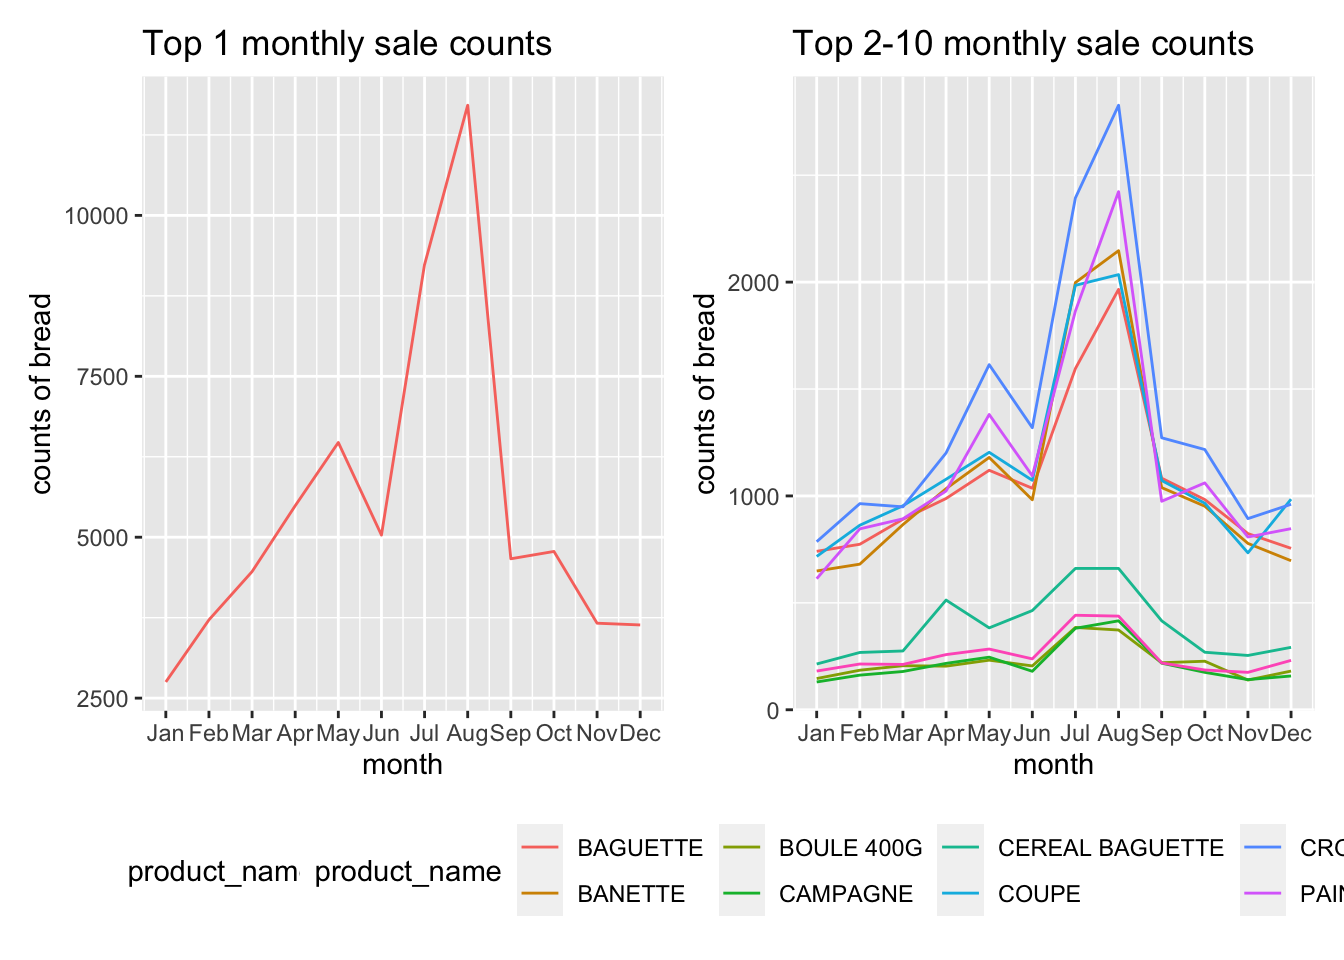
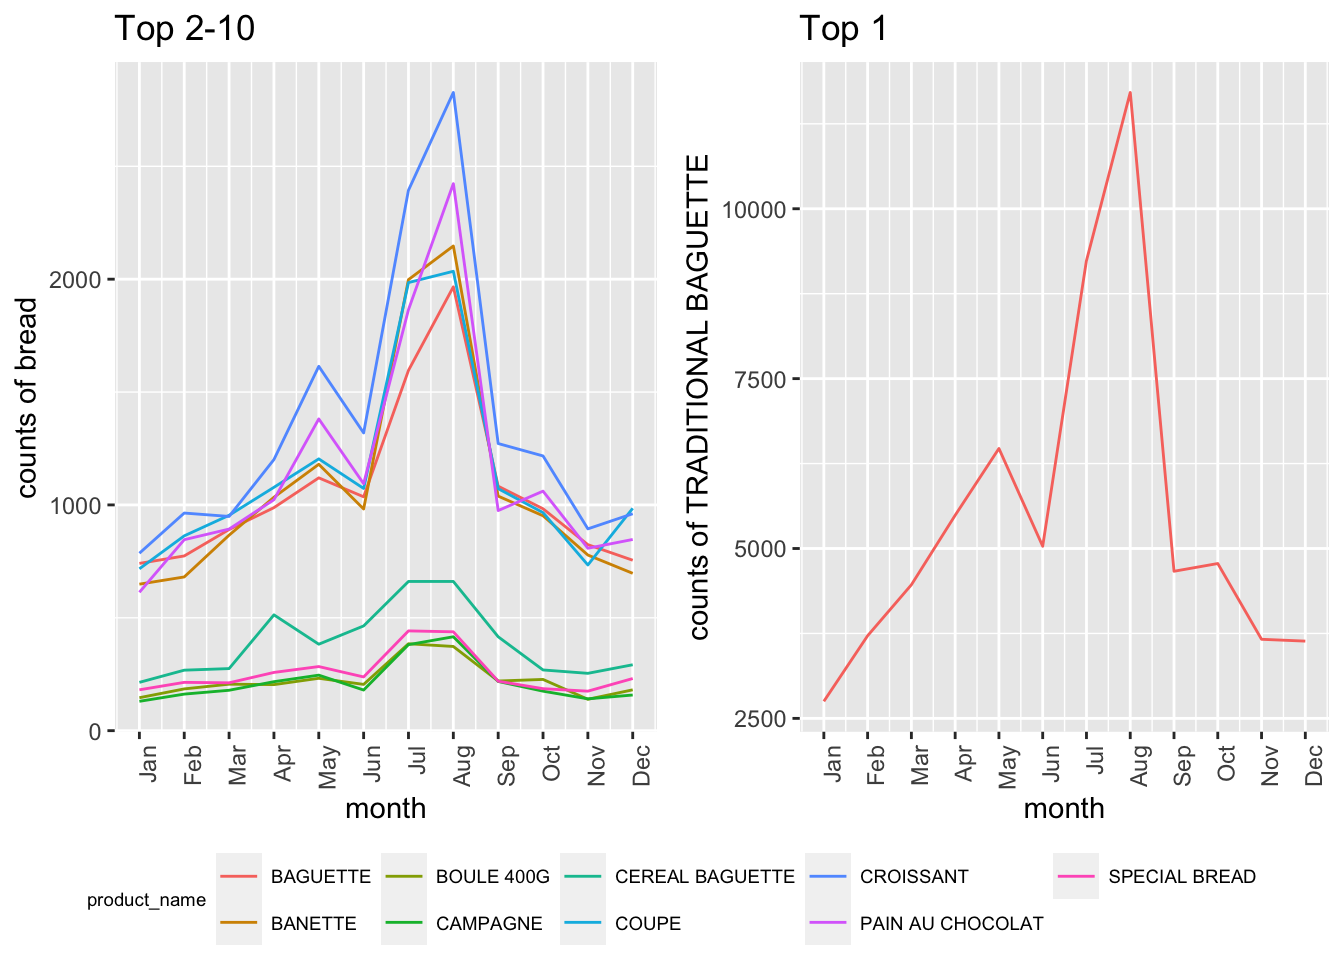
added descriptions for Top 10 favorite bread monthly sale counts in 2021

diff --git a/plot.html b/plot.html
@@ -13,7 +13,7 @@
 
 <title>Exploratory Analyses</title>
 
-<script src="site_libs/header-attrs-2.16/header-attrs.js"></script>
+<script src="site_libs/header-attrs-2.18/header-attrs.js"></script>
 <script src="site_libs/jquery-3.6.0/jquery-3.6.0.min.js"></script>
 <meta name="viewport" content="width=device-width, initial-scale=1" />
 <link href="site_libs/bootstrap-3.3.5/css/sandstone.min.css" rel="stylesheet" />
@@ -37,12 +37,12 @@
 <link href="site_libs/highlightjs-9.12.0/default.css" rel="stylesheet" />
 <script src="site_libs/highlightjs-9.12.0/highlight.js"></script>
 <script src="site_libs/htmlwidgets-1.5.4/htmlwidgets.js"></script>
-<script src="site_libs/plotly-binding-4.10.0/plotly.js"></script>
+<script src="site_libs/plotly-binding-4.10.1/plotly.js"></script>
 <script src="site_libs/typedarray-0.1/typedarray.min.js"></script>
 <link href="site_libs/crosstalk-1.2.0/css/crosstalk.min.css" rel="stylesheet" />
 <script src="site_libs/crosstalk-1.2.0/js/crosstalk.min.js"></script>
-<link href="site_libs/plotly-htmlwidgets-css-2.5.1/plotly-htmlwidgets.css" rel="stylesheet" />
-<script src="site_libs/plotly-main-2.5.1/plotly-latest.min.js"></script>
+<link href="site_libs/plotly-htmlwidgets-css-2.11.1/plotly-htmlwidgets.css" rel="stylesheet" />
+<script src="site_libs/plotly-main-2.11.1/plotly-latest.min.js"></script>
 <link href="site_libs/font-awesome-5.1.0/css/all.css" rel="stylesheet" />
 <link href="site_libs/font-awesome-5.1.0/css/v4-shims.css" rel="stylesheet" />
 
@@ -191,8 +191,8 @@ $(document).ready(function () {
   border-radius: 4px;
 }
 
-.tabset-dropdown > .nav-tabs > li.active:before {
-  content: "";
+.tabset-dropdown > .nav-tabs > li.active:before, .tabset-dropdown > .nav-tabs.nav-tabs-open:before {
+  content: "\e259";
   font-family: 'Glyphicons Halflings';
   display: inline-block;
   padding: 10px;
@@ -200,16 +200,9 @@ $(document).ready(function () {
 }
 
 .tabset-dropdown > .nav-tabs.nav-tabs-open > li.active:before {
-  content: "&#xe258;";
-  border: none;
-}
-
-.tabset-dropdown > .nav-tabs.nav-tabs-open:before {
-  content: "";
+  content: "\e258";
   font-family: 'Glyphicons Halflings';
-  display: inline-block;
-  padding: 10px;
-  border-right: 1px solid #ddd;
+  border: none;
 }
 
 .tabset-dropdown > .nav-tabs > li.active {
@@ -394,7 +387,7 @@ library(tidyverse)
 library(lubridate)
 library(plotly)
 library(patchwork)
-library(viridis)</code></pre>
+library(ggpubr)</code></pre>
 <div id="summary-of-the-used-packages-and-dependencies"
 class="section level3">
 <h3>Summary of the used packages and dependencies</h3>
@@ -451,8 +444,8 @@ the missing data via <code>filter()</code> and <code>article</code> via
          yaxis = list(showgrid = FALSE, zeroline = FALSE, showticklabels = FALSE))
 
 plot_pie</code></pre>
-<div id="htmlwidget-4a0b4a239f2f8de718bc" style="width:672px;height:480px;" class="plotly html-widget"></div>
-<script type="application/json" data-for="htmlwidget-4a0b4a239f2f8de718bc">{"x":{"visdat":{"431e5dc96476":["function () ","plotlyVisDat"]},"cur_data":"431e5dc96476","attrs":{"431e5dc96476":{"labels":{},"values":{},"colors":"viridis","alpha_stroke":1,"sizes":[10,100],"spans":[1,20],"type":"pie"}},"layout":{"margin":{"b":40,"l":60,"t":25,"r":10},"xaxis":{"showgrid":false,"zeroline":false,"showticklabels":false},"yaxis":{"showgrid":false,"zeroline":false,"showticklabels":false},"hovermode":"closest","showlegend":true},"source":"A","config":{"modeBarButtonsToAdd":["hoverclosest","hovercompare"],"showSendToCloud":false},"data":[{"labels":["TRADITIONAL BAGUETTE","COUPE","BAGUETTE","BANETTE","CROISSANT","PAIN AU CHOCOLAT","SPECIAL BREAD","CEREAL BAGUETTE","FORMULE SANDWICH","BOULE 400G"],"values":[67689,20470,15292,15130,11508,10578,5195,4961,4202,4099],"type":"pie","marker":{"color":"rgba(31,119,180,1)","line":{"color":"rgba(255,255,255,1)"}},"frame":null}],"highlight":{"on":"plotly_click","persistent":false,"dynamic":false,"selectize":false,"opacityDim":0.2,"selected":{"opacity":1},"debounce":0},"shinyEvents":["plotly_hover","plotly_click","plotly_selected","plotly_relayout","plotly_brushed","plotly_brushing","plotly_clickannotation","plotly_doubleclick","plotly_deselect","plotly_afterplot","plotly_sunburstclick"],"base_url":"https://plot.ly"},"evals":[],"jsHooks":[]}</script>
+<div id="htmlwidget-beab2031eaaf34b76c13" style="width:672px;height:480px;" class="plotly html-widget"></div>
+<script type="application/json" data-for="htmlwidget-beab2031eaaf34b76c13">{"x":{"visdat":{"99d1d14fda8":["function () ","plotlyVisDat"]},"cur_data":"99d1d14fda8","attrs":{"99d1d14fda8":{"labels":{},"values":{},"colors":"viridis","alpha_stroke":1,"sizes":[10,100],"spans":[1,20],"type":"pie"}},"layout":{"margin":{"b":40,"l":60,"t":25,"r":10},"xaxis":{"showgrid":false,"zeroline":false,"showticklabels":false},"yaxis":{"showgrid":false,"zeroline":false,"showticklabels":false},"hovermode":"closest","showlegend":true},"source":"A","config":{"modeBarButtonsToAdd":["hoverclosest","hovercompare"],"showSendToCloud":false},"data":[{"labels":["TRADITIONAL BAGUETTE","COUPE","BAGUETTE","BANETTE","CROISSANT","PAIN AU CHOCOLAT","SPECIAL BREAD","CEREAL BAGUETTE","FORMULE SANDWICH","BOULE 400G"],"values":[67689,20470,15292,15130,11508,10578,5195,4961,4202,4099],"type":"pie","marker":{"color":"rgba(31,119,180,1)","line":{"color":"rgba(255,255,255,1)"}},"frame":null}],"highlight":{"on":"plotly_click","persistent":false,"dynamic":false,"selectize":false,"opacityDim":0.2,"selected":{"opacity":1},"debounce":0},"shinyEvents":["plotly_hover","plotly_click","plotly_selected","plotly_relayout","plotly_brushed","plotly_brushing","plotly_clickannotation","plotly_doubleclick","plotly_deselect","plotly_afterplot","plotly_sunburstclick"],"base_url":"https://plot.ly"},"evals":[],"jsHooks":[]}</script>
 <p>The pie chart shows the total of sale counts of top 10 favorite
 bakery types from 2021-01-01 to 2022-09-30. As the plot shows that the
 <code>TRADITIONAL BAGUETTE</code> (67,689; 42.5%) is the most favorite
@@ -501,11 +494,11 @@ plot_pie_2022 =
          yaxis = list(showgrid = FALSE, zeroline = FALSE, showticklabels = FALSE))
 
 plot_pie_2021</code></pre>
-<div id="htmlwidget-8e62f1c1530a5e2e7e61" style="width:672px;height:480px;" class="plotly html-widget"></div>
-<script type="application/json" data-for="htmlwidget-8e62f1c1530a5e2e7e61">{"x":{"visdat":{"431e52547388":["function () ","plotlyVisDat"]},"cur_data":"431e52547388","attrs":{"431e52547388":{"labels":{},"values":{},"alpha_stroke":1,"sizes":[10,100],"spans":[1,20],"type":"pie","hole":0.6,"inherit":true}},"layout":{"margin":{"b":40,"l":60,"t":25,"r":10},"title":"Top 10 favoriate bakeries in 2021","xaxis":{"showgrid":false,"zeroline":false,"showticklabels":false},"yaxis":{"showgrid":false,"zeroline":false,"showticklabels":false},"hovermode":"closest","showlegend":true},"source":"A","config":{"modeBarButtonsToAdd":["hoverclosest","hovercompare"],"showSendToCloud":false},"data":[{"labels":["TRADITIONAL BAGUETTE","COUPE","BAGUETTE","BANETTE","CROISSANT","PAIN AU CHOCOLAT","CEREAL BAGUETTE","SPECIAL BREAD","CAMPAGNE","BOULE 400G"],"values":[37399,11759,8713,8575,6291,5739,3070,2936,2289,2283],"type":"pie","hole":0.6,"marker":{"color":"rgba(31,119,180,1)","line":{"color":"rgba(255,255,255,1)"}},"frame":null}],"highlight":{"on":"plotly_click","persistent":false,"dynamic":false,"selectize":false,"opacityDim":0.2,"selected":{"opacity":1},"debounce":0},"shinyEvents":["plotly_hover","plotly_click","plotly_selected","plotly_relayout","plotly_brushed","plotly_brushing","plotly_clickannotation","plotly_doubleclick","plotly_deselect","plotly_afterplot","plotly_sunburstclick"],"base_url":"https://plot.ly"},"evals":[],"jsHooks":[]}</script>
+<div id="htmlwidget-e856620155e179d091df" style="width:672px;height:480px;" class="plotly html-widget"></div>
+<script type="application/json" data-for="htmlwidget-e856620155e179d091df">{"x":{"visdat":{"99d11e635ffb":["function () ","plotlyVisDat"]},"cur_data":"99d11e635ffb","attrs":{"99d11e635ffb":{"labels":{},"values":{},"alpha_stroke":1,"sizes":[10,100],"spans":[1,20],"type":"pie","hole":0.6,"inherit":true}},"layout":{"margin":{"b":40,"l":60,"t":25,"r":10},"title":"Top 10 favoriate bakeries in 2021","xaxis":{"showgrid":false,"zeroline":false,"showticklabels":false},"yaxis":{"showgrid":false,"zeroline":false,"showticklabels":false},"hovermode":"closest","showlegend":true},"source":"A","config":{"modeBarButtonsToAdd":["hoverclosest","hovercompare"],"showSendToCloud":false},"data":[{"labels":["TRADITIONAL BAGUETTE","COUPE","BAGUETTE","BANETTE","CROISSANT","PAIN AU CHOCOLAT","CEREAL BAGUETTE","SPECIAL BREAD","CAMPAGNE","BOULE 400G"],"values":[37399,11759,8713,8575,6291,5739,3070,2936,2289,2283],"type":"pie","hole":0.6,"marker":{"color":"rgba(31,119,180,1)","line":{"color":"rgba(255,255,255,1)"}},"frame":null}],"highlight":{"on":"plotly_click","persistent":false,"dynamic":false,"selectize":false,"opacityDim":0.2,"selected":{"opacity":1},"debounce":0},"shinyEvents":["plotly_hover","plotly_click","plotly_selected","plotly_relayout","plotly_brushed","plotly_brushing","plotly_clickannotation","plotly_doubleclick","plotly_deselect","plotly_afterplot","plotly_sunburstclick"],"base_url":"https://plot.ly"},"evals":[],"jsHooks":[]}</script>
 <pre class="r"><code>plot_pie_2022</code></pre>
-<div id="htmlwidget-9048bfdb962d892985c9" style="width:672px;height:480px;" class="plotly html-widget"></div>
-<script type="application/json" data-for="htmlwidget-9048bfdb962d892985c9">{"x":{"visdat":{"431e266d0ff2":["function () ","plotlyVisDat"]},"cur_data":"431e266d0ff2","attrs":{"431e266d0ff2":{"labels":{},"values":{},"alpha_stroke":1,"sizes":[10,100],"spans":[1,20],"type":"pie","hole":0.6,"inherit":true}},"layout":{"margin":{"b":40,"l":60,"t":25,"r":10},"title":"Top 10 favoriate bakeries in 2022","xaxis":{"showgrid":false,"zeroline":false,"showticklabels":false},"yaxis":{"showgrid":false,"zeroline":false,"showticklabels":false},"hovermode":"closest","showlegend":true},"source":"A","config":{"modeBarButtonsToAdd":["hoverclosest","hovercompare"],"showSendToCloud":false},"data":[{"labels":["TRADITIONAL BAGUETTE","COUPE","BAGUETTE","BANETTE","CROISSANT","PAIN AU CHOCOLAT","SPECIAL BREAD","FORMULE SANDWICH","CEREAL BAGUETTE","BOULE 400G"],"values":[30290,8711,6579,6555,5217,4839,2259,1976,1891,1816],"type":"pie","hole":0.6,"marker":{"color":"rgba(31,119,180,1)","line":{"color":"rgba(255,255,255,1)"}},"frame":null}],"highlight":{"on":"plotly_click","persistent":false,"dynamic":false,"selectize":false,"opacityDim":0.2,"selected":{"opacity":1},"debounce":0},"shinyEvents":["plotly_hover","plotly_click","plotly_selected","plotly_relayout","plotly_brushed","plotly_brushing","plotly_clickannotation","plotly_doubleclick","plotly_deselect","plotly_afterplot","plotly_sunburstclick"],"base_url":"https://plot.ly"},"evals":[],"jsHooks":[]}</script>
+<div id="htmlwidget-c92b4ea58f42e8a239af" style="width:672px;height:480px;" class="plotly html-widget"></div>
+<script type="application/json" data-for="htmlwidget-c92b4ea58f42e8a239af">{"x":{"visdat":{"99d1e326753":["function () ","plotlyVisDat"]},"cur_data":"99d1e326753","attrs":{"99d1e326753":{"labels":{},"values":{},"alpha_stroke":1,"sizes":[10,100],"spans":[1,20],"type":"pie","hole":0.6,"inherit":true}},"layout":{"margin":{"b":40,"l":60,"t":25,"r":10},"title":"Top 10 favoriate bakeries in 2022","xaxis":{"showgrid":false,"zeroline":false,"showticklabels":false},"yaxis":{"showgrid":false,"zeroline":false,"showticklabels":false},"hovermode":"closest","showlegend":true},"source":"A","config":{"modeBarButtonsToAdd":["hoverclosest","hovercompare"],"showSendToCloud":false},"data":[{"labels":["TRADITIONAL BAGUETTE","COUPE","BAGUETTE","BANETTE","CROISSANT","PAIN AU CHOCOLAT","SPECIAL BREAD","FORMULE SANDWICH","CEREAL BAGUETTE","BOULE 400G"],"values":[30290,8711,6579,6555,5217,4839,2259,1976,1891,1816],"type":"pie","hole":0.6,"marker":{"color":"rgba(31,119,180,1)","line":{"color":"rgba(255,255,255,1)"}},"frame":null}],"highlight":{"on":"plotly_click","persistent":false,"dynamic":false,"selectize":false,"opacityDim":0.2,"selected":{"opacity":1},"debounce":0},"shinyEvents":["plotly_hover","plotly_click","plotly_selected","plotly_relayout","plotly_brushed","plotly_brushing","plotly_clickannotation","plotly_doubleclick","plotly_deselect","plotly_afterplot","plotly_sunburstclick"],"base_url":"https://plot.ly"},"evals":[],"jsHooks":[]}</script>
 <p>The first donut chart shows the total of sale counts of top 10
 favorite bakery types from 2021-01-01 to 2021-12-31. As the plot shows
 that the <code>TRADITIONAL BAGUETTE</code> (37,399; 42%) is the most
@@ -552,9 +545,10 @@ top_line1_2021 =
   filter(product_name %in% c(&quot;TRADITIONAL BAGUETTE&quot;)) %&gt;% 
   ggplot(aes(x =month, y = total_counts, color = product_name)) + 
     geom_line() +
+    theme(axis.text.x = element_text(angle=90,hjust = 1), legend.position = &quot;none&quot;) +
     labs(x = &quot;month&quot;,
-         y = &quot;counts of bread&quot;,
-         title = &quot;Top 1 monthly sale counts&quot;) +
+         y = &quot;counts of TRADITIONAL BAGUETTE&quot;,
+         title = &quot;Top 1&quot;) +
     scale_x_continuous(
     breaks = c(1, 2, 3, 4, 5, 6, 7, 8, 9, 10, 11, 12), 
     labels = c(&quot;Jan&quot;,&quot;Feb&quot;,&quot;Mar&quot;,&quot;Apr&quot;,&quot;May&quot;, &quot;Jun&quot;, &quot;Jul&quot;, &quot;Aug&quot;, &quot;Sep&quot;, &quot;Oct&quot;, &quot;Nov&quot;, &quot;Dec&quot;)) 
@@ -564,20 +558,29 @@ top_line2_2021 =
     filter(product_name %in% c(&quot;COUPE&quot;, &quot;BAGUETTE&quot;,&quot;BANETTE&quot;, &quot;CROISSANT&quot;, &quot;PAIN AU CHOCOLAT&quot;, &quot;CEREAL BAGUETTE&quot;, &quot;SPECIAL BREAD&quot;, &quot;CAMPAGNE&quot;, &quot;BOULE 400G&quot;)) %&gt;% 
   ggplot(aes(x =month, y = total_counts, color = product_name)) + 
     geom_line() +
-    theme(legend.position = &quot;bottom&quot;) + 
+    theme(axis.text.x = element_text(angle=90,hjust = 1), legend.position = &quot;none&quot;, legend.title = element_text(size=7), legend.text = element_text(size=7)) + 
     labs(x = &quot;month&quot;,
          y = &quot;counts of bread&quot;,
-         title = &quot;Top 2-10 monthly sale counts&quot;) +
+         title = &quot;Top 2-10&quot;) +
     scale_x_continuous(
     breaks = c(1, 2, 3, 4, 5, 6, 7, 8, 9, 10, 11, 12), 
     labels = c(&quot;Jan&quot;,&quot;Feb&quot;,&quot;Mar&quot;,&quot;Apr&quot;,&quot;May&quot;, &quot;Jun&quot;, &quot;Jul&quot;, &quot;Aug&quot;, &quot;Sep&quot;, &quot;Oct&quot;, &quot;Nov&quot;, &quot;Dec&quot;))
-  
- 
-top_line1_2021+top_line2_2021</code></pre>
+
+ggarrange(top_line2_2021, top_line1_2021, ncol=2, nrow=1, common.legend = TRUE, legend=&quot;bottom&quot;)</code></pre>
 <p><img src="plot_files/figure-html/unnamed-chunk-3-1.png" width="672" /></p>
 <p>In general, summer (from June to September) has higher monthly sale
-counts.</p>
-<p>, peaking at August.</p>
+counts of top 10 favorite bread in 2021.</p>
+<p>For <code>TRADITIONAL BAGUETTE</code> (line plot on the right), total
+monthly sale counts in 2021 peaked at August (&gt;10,000). However,
+total monthly sale counts decreased from May to June, August to
+September, and October to December in 2021. For line plot on the left,
+total monthly sale counts in 2021 are less than 3,000 but greater than
+500 in every month for top 2-6 (<code>COUPE</code>,
+<code>BAGUETTE</code>, <code>BANETTE</code>, <code>CROISSANT</code>,
+<code>PAIN AU CHOCOLAT</code>). For top 7-10
+(<code>CEREAL BAGUETTE</code>, <code>SPECIAL BREAD</code>,
+<code>CAMPAGNE</code>, and <code>BOULE 400G</code>), total monthly sale
+counts in 2021 are less than 1,000 in every month.</p>
 </div>
 </div>
 
